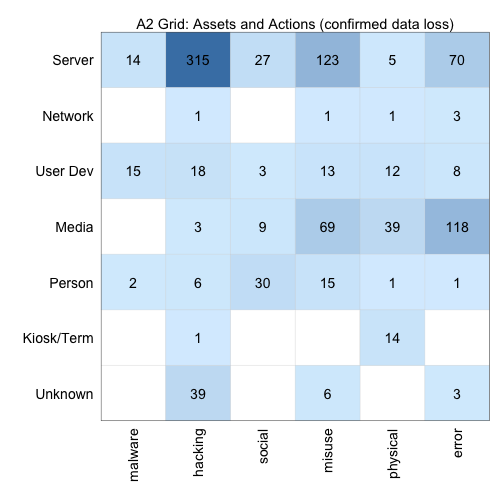
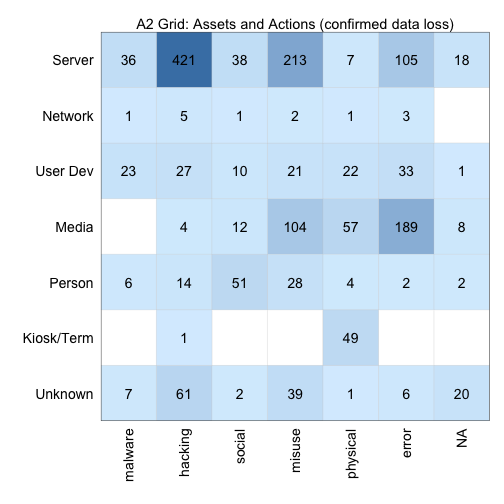
fixed more typos and reran readme

diff --git a/README.md b/README.md
@@ -10,7 +10,7 @@ Install it from straight from github:
 
 ```r
 library("devtools")
-install_github("verisr", "vz-risk")
+install_github("verisr", "jayjacobs")
 ```
 
 
@@ -19,7 +19,7 @@ To begin, load the package and point it at a directory of JSON files storing VER
 
 ```r
 library(verisr)
-vcdb.dir <- "../VCDB/incidents"
+vcdb.dir <- "../VCDB/data/json/"
 vcdb <- json2veris(vcdb.dir)
 ```
 
@@ -32,27 +32,27 @@ summary(vcdb)
 ```
 
 ```
-## 1737 incidents in this object.
+## 2559 incidents in this object.
 ## 
 ## Actor:
 ## external internal  partner  unknown 
-##     1024      556      104       86 
+##     1464      893      137      120 
 ## 
 ## Action:
 ## environmental         error       hacking       malware        misuse 
-##             1           413           466            49           225 
-##      physical        social 
-##           520            33 
+##             3           593           740            94           412 
+##      physical        social       unknown 
+##           657            58           139 
 ## 
 ## Asset:
 ## Kiosk/Term      Media    Network     Person     Server    Unknown 
-##         18        546         10         37        724         86 
+##         60        702         20         71       1155        186 
 ##   User Dev 
-##        447 
+##        576 
 ## 
 ## Attribute:
 ##  confidentiality     availability  confidentiality        integrity 
-##               61              639             1629              190
+##                2              894             2374              462
 ```
 
 
@@ -76,17 +76,18 @@ print(ext.variety)
 
 ```
 ##                enum   x
-## 1        Competitor   1
-## 2          Customer   1
-## 3  State-affiliated   2
-## 4     Force majeure   3
-## 5      Nation-state   3
-## 6             Other   9
-## 7   Former employee  11
-## 8   Organized crime  21
-## 9          Activist 134
-## 10     Unaffiliated 220
-## 11          Unknown 619
+## 1           Unknown 991
+## 2          Activist 255
+## 3      Unaffiliated  99
+## 4   Organized crime  59
+## 5   Former employee  16
+## 6             Other  14
+## 7     Force majeure  10
+## 8      Nation-state   8
+## 9  State-affiliated   7
+## 10       Competitor   4
+## 11     Acquaintance   1
+## 12         Customer   1
 ```
 
 
@@ -114,12 +115,12 @@ head(hacking.actor)
 
 ```
 ##              enum         primary   x
-## 1 Web application         Unknown  72
-## 2 Web application    Unaffiliated  72
-## 3 Web application        Activist 102
-## 4 Web application Organized crime   2
-## 5 Web application Former employee   2
-## 6 Web application           Other   1
+## 1 Web application         Unknown 167
+## 2 Web application        Activist 197
+## 3 Web application Organized crime   8
+## 4 Web application    Unaffiliated  55
+## 5 Web application      Competitor   0
+## 6 Web application Former employee   2
 ```
 
 
@@ -151,13 +152,13 @@ head(action.asset)
 ```
 
 ```
-##     enum  primary   x
-## 1 Server  hacking 315
-## 2 Server    error  70
-## 3 Server   misuse 123
-## 4 Server   social  27
-## 5 Server  malware  14
-## 6 Server physical   5
+##     enum primary   x
+## 1 Server hacking 421
+## 2 Server  misuse 213
+## 3 Server   error 105
+## 4 Server  social  38
+## 5 Server unknown  18
+## 6 Server malware  36
 ```
 
 
@@ -172,6 +173,6 @@ And now make a nice 2 x 2 grid with the data.
 
 ```
 ##    user  system elapsed 
-##   5.124   0.121   5.274
+##   6.742   0.361   7.536
 ```
 
